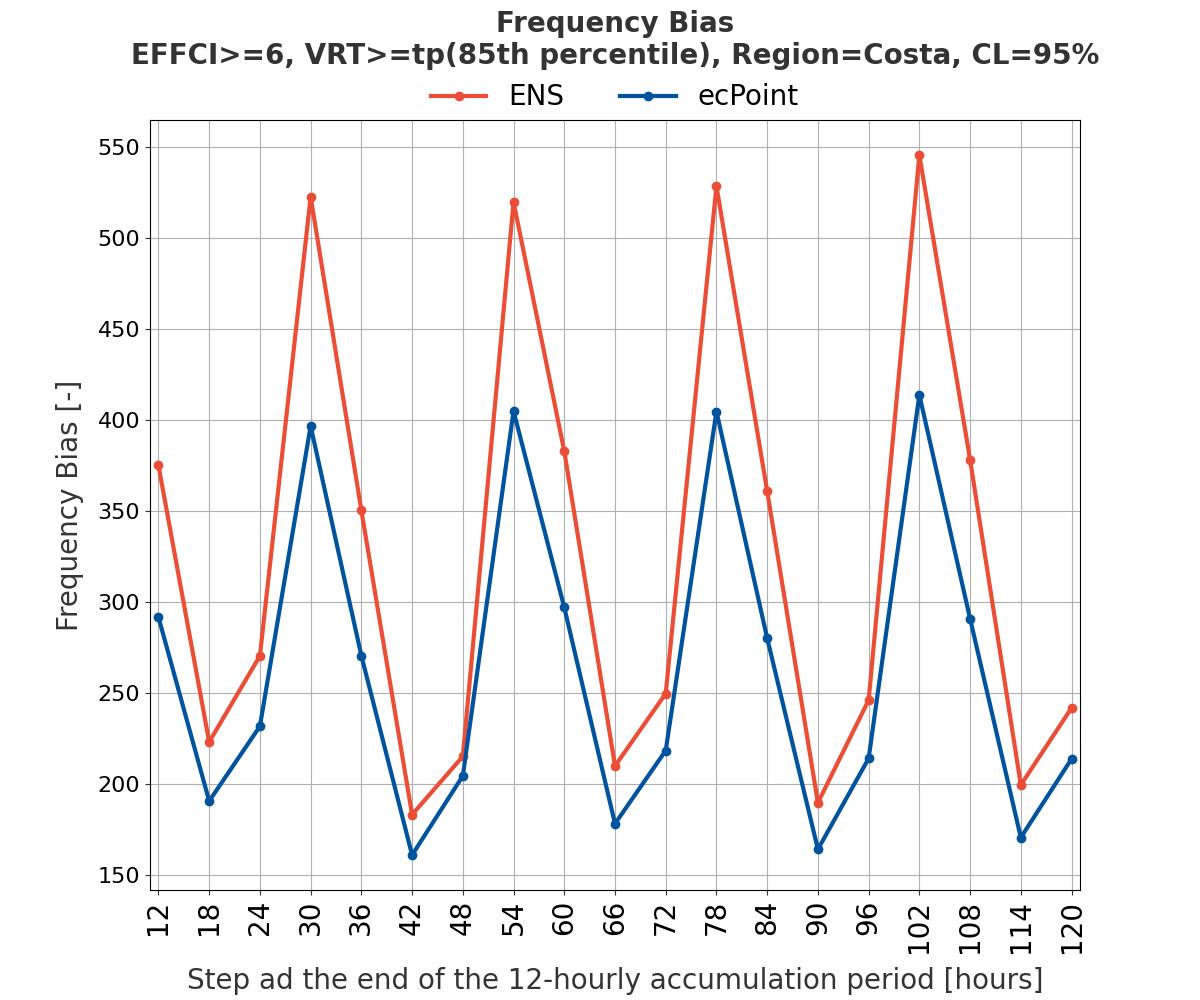
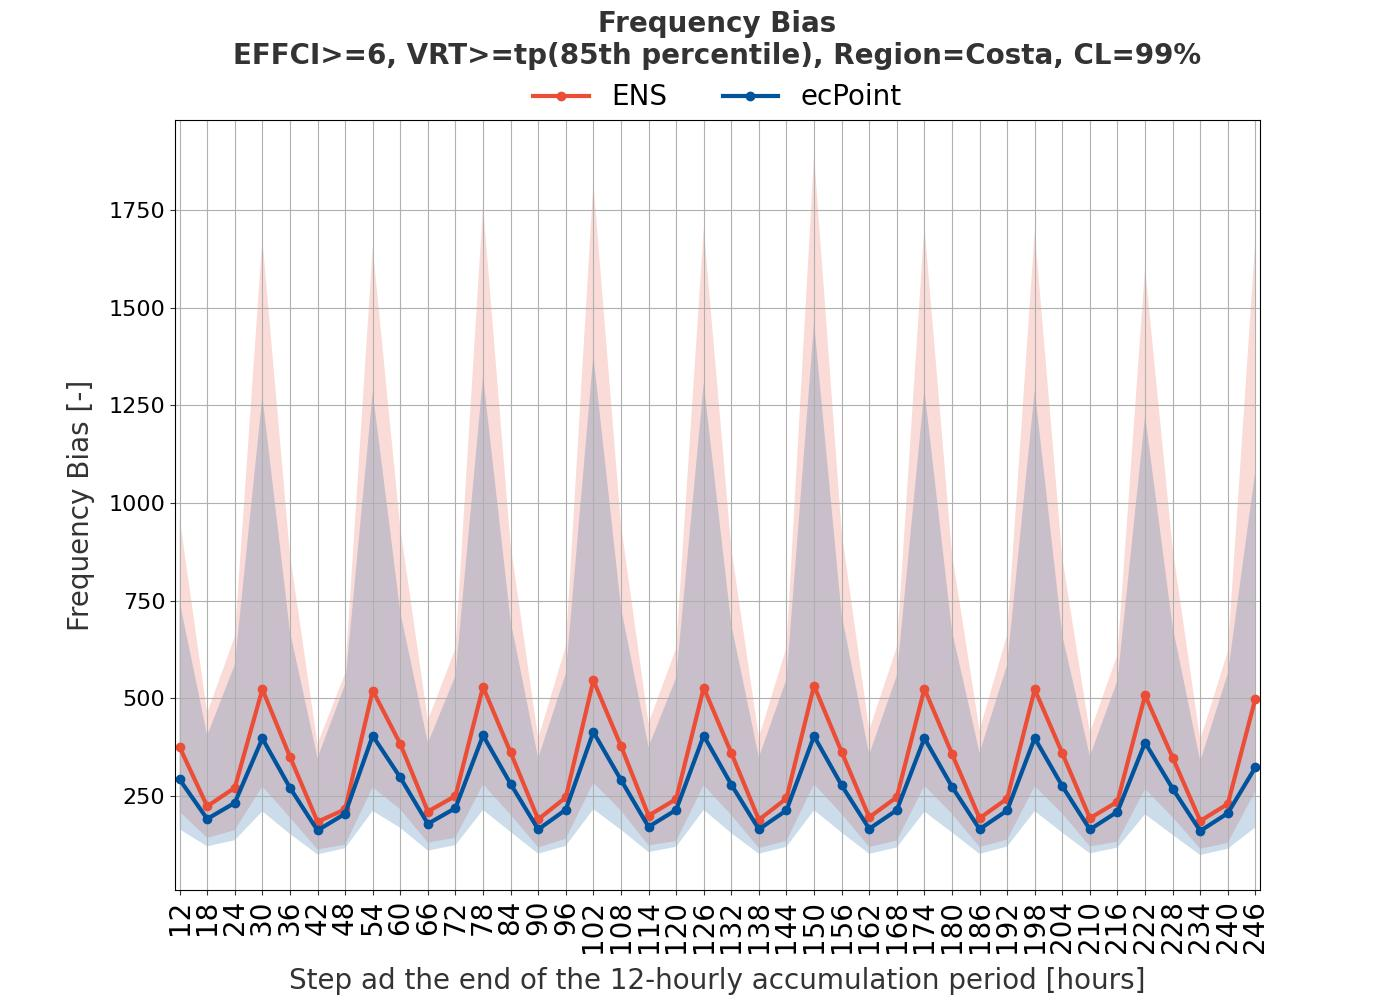
Added the plots related to the frequency bias.

diff --git a/Scripts/Processed/10_Compute_FB_Bootstrapping.py b/Scripts/Processed/10_Compute_FB_Bootstrapping.py
@@ -31,12 +31,12 @@ import numpy as np
 DateS = datetime(2020,1,1,0)
 DateF = datetime(2020,12,31,0)
 StepF_Start = 12
-StepF_Final = 120
+StepF_Final = 246
 Disc_Step = 6
 Acc = 12
-EFFCI_list = [6]
+EFFCI_list = [1,6,10]
 MagnitudeInPerc_Rain_Event_FR_list = [85,99]
-RepetitionsBS = 100
+RepetitionsBS = 10000
 RegionName_list = ["Costa","Sierra"]
 SystemFC_list = ["ENS", "ecPoint"]
 NumEM_list = [51,99]
@@ -49,15 +49,16 @@ DirOUT_FB = "Data/Compute/10_FB_Bootstrapping"
 print(" ")
 print("Computing FB, including " + str(RepetitionsBS) + " bootstrapped values")
 
-# Computing the totals number of days contained in the considered verification period
-NumTotDays = (DateF-DateS).days + 1
+# Sorting the dates to consider in the bootstrapping
+NumDays = (DateF-DateS).days + 1
+Dates_Orig = np.array([DateS + timedelta(days=i) for i in range(NumDays)])
+Dates_BS = (np.array([choices(population=Dates_Orig, k=NumDays) for i in range(RepetitionsBS)])).flatten()
+temp = {value: index for index, value in enumerate(Dates_Orig)}
+ind_Dates_BS = (np.array([temp[elem] for elem in Dates_BS])).reshape(RepetitionsBS,NumDays)
 
 # Creating the list containing the steps to considered in the computations
 StepF_list = range(StepF_Start, (StepF_Final+1), Disc_Step)
-
-# Computing the variables containing the sizes of the FC variables
-m = len(StepF_list)
-n = len(range(RepetitionsBS + 1))
+NumStepF = len(StepF_list)
 
 # Computing FB for a specific forecasting system
 for indSystemFC in range(len(SystemFC_list)):
@@ -80,50 +81,38 @@ for indSystemFC in range(len(SystemFC_list)):
 
                         print(" - For " + SystemFC + ", " + RegionName + ", EFFCI>=" + str(EFFCI) + ", VRT>=tp(" + str(MagnitudeInPerc_Rain_Event_FR) + "th percentile)")
 
-                        # Initializing the variables containing the FB values, and the bootstrapped ones
-                        FB_array = np.zeros([m,n+1])
-            
+                        # Initializing the variable that will contained the FB values
+                        FB_BS = np.empty((NumStepF, RepetitionsBS + 2))
+
                         # Computing FB for a specific lead time
-                        for indStepF in range(len(StepF_list)):
+                        for indStepF in range(NumStepF):
                               
                               # Selecting the StepF to consider
                               StepF = StepF_list[indStepF]
+                              FB_BS[indStepF,0] = StepF
+
                               print("     - Considering StepF=" + str(StepF) + " ...")
 
-                              # Storing information about the step computed
-                              FB_array[indStepF, 0] = StepF
+                              # Reading the counts of yes-events in the forecasts and observations for the original dates
+                              count_yes_fc = np.empty(NumDays) * np.nan
+                              count_yes_obs = np.empty(NumDays) * np.nan
+                              for ind_Date in range(len(Dates_Orig)):
+                                    TheDate = Dates_Orig[ind_Date]
+                                    FileIN = Git_repo + "/" + DirIN + "/" + f"{Acc:02d}" + "h/EFFCI" +  f"{EFFCI:02d}" + "/VRT" + f"{MagnitudeInPerc_Rain_Event_FR:02d}" + "/" + f"{StepF:03d}" + "/" + SystemFC + "/" + RegionName + "/Count_FC_OBS_" + f"{Acc:02d}" + "h_EFFCI" + f"{EFFCI:02d}" + "_VRT" + f"{MagnitudeInPerc_Rain_Event_FR:02d}" + "_" + SystemFC + "_" + RegionName + "_" + TheDate.strftime("%Y%m%d") + "_" + TheDate.strftime("%H") + "_" + f"{StepF:03d}" + ".npy"
+                                    if os.path.isfile(FileIN):
+                                          count_yes_fc[ind_Date] = np.round(np.load(FileIN)[0]/NumEM).astype(int)
+                                          count_yes_obs[ind_Date] = np.load(FileIN)[1]
+                              FB_BS[indStepF,1] = np.nansum(count_yes_fc) / np.nansum(count_yes_obs)
 
-                              # Generating the list of days to use during the bootstrapping 
-                              TheDate = DateS
-                              TheDates_original = []
-                              while TheDate <= DateF:
-                                    TheDates_original.append(TheDate)
-                                    TheDate += timedelta(days=1)
-                              TheDates_original = np.array(TheDates_original)
-                              
-                              # Computing FB for the original and the bootstrapped dates
-                              for ind_repBS in range(RepetitionsBS+1):
-                                   
-                                    # Selecting the list of dates to consider
-                                    if ind_repBS == 0: # selecting the original dates
-                                          TheDates_BS = TheDates_original
-                                    else: # selecting the bootstrapped dates
-                                          TheDates_BS = np.array(choices(population=TheDates_original, k=NumTotDays)) # list of bootstrapped dates
+                              # Extracting the bootstrapped values for the counts
+                              for ind_BS in range(RepetitionsBS):
+                                    count_yes_fc_BS = count_yes_fc[ind_Dates_BS[ind_BS,:]]
+                                    count_yes_obs_BS = count_yes_obs[ind_Dates_BS[ind_BS,:]]
+                                    FB_BS[indStepF,ind_BS+2] = np.nansum(count_yes_fc_BS) / np.nansum(count_yes_obs_BS)
 
-                                    # Computing the FB for the selected dates
-                                    tot_count_yes_fc = 0
-                                    tot_count_yes_obs = 0
-                                    for TheDate_BS in TheDates_BS:
-                                          FileIN = Git_repo + "/" + DirIN + "/" + f"{Acc:02d}" + "h/EFFCI" +  f"{EFFCI:02d}" + "/VRT" + f"{MagnitudeInPerc_Rain_Event_FR:02d}" + "/" + f"{StepF:03d}" + "/" + SystemFC + "/" + RegionName + "/Count_FC_OBS_" + f"{Acc:02d}" + "h_EFFCI" + f"{EFFCI:02d}" + "_VRT" + f"{MagnitudeInPerc_Rain_Event_FR:02d}" + "_" + SystemFC + "_" + RegionName + "_" + TheDate_BS.strftime("%Y%m%d") + "_" + TheDate_BS.strftime("%H") + "_" + f"{StepF:03d}" + ".npy"
-                                          tot_count_yes_fc = tot_count_yes_fc + np.load(FileIN)[0]
-                                          tot_count_yes_obs = tot_count_yes_obs  + np.load(FileIN)[1]
-                                          
-                                    # Computing FB
-                                    FB_array[indStepF, ind_repBS+1] = tot_count_yes_fc / (NumEM * tot_count_yes_obs)
-                        
                         # Saving the FB array
                         DirOUT_temp= Git_repo + "/" + DirOUT_FB + "/" + f"{Acc:02d}" + "h"
                         FileNameOUT_temp = "FB_" + f"{Acc:02d}" + "h_VRT" + f"{MagnitudeInPerc_Rain_Event_FR:02d}" + "_" + SystemFC + "_EFFCI" + f"{EFFCI:02d}" + "_" + RegionName
                         if not os.path.exists(DirOUT_temp):
                               os.makedirs(DirOUT_temp)
-                        np.save(DirOUT_temp + "/" + FileNameOUT_temp, FB_array)
+                        np.save(DirOUT_temp + "/" + FileNameOUT_temp, FB_BS)

diff --git a/Scripts/Processed/11_Plot_FB_CI.py b/Scripts/Processed/11_Plot_FB_CI.py
@@ -5,7 +5,7 @@ import matplotlib.pyplot as plt
 #####################################################################################
 # CODE DESCRIPTION
 # 11_Plot_FB_CI.py plots Frequency Bias (FB) and confidence intervals (CI).
-# Note: the code can take up 20 minutes to run in serial.
+# Note: the code can take up 10 minutes to run in serial.
 
 # INPUT PARAMETERS DESCRIPTION
 # Acc (number, in hours): rainfall accumulation to consider.
@@ -26,7 +26,7 @@ import matplotlib.pyplot as plt
 Acc = 12
 EFFCI_list = [1,6,10]
 MagnitudeInPerc_Rain_Event_FR_list = [85,99]
-CL = 95
+CL = 99
 RegionName_list = ["Costa","Sierra"]
 SystemFC_list = ["ENS", "ecPoint"]
 Colour_SystemFC_list = ["#ec4d37", "#00539CFF"]
@@ -48,7 +48,7 @@ for EFFCI in EFFCI_list:
             for RegionName in RegionName_list: 
                   
                   # Setting the figure
-                  fig, ax = plt.subplots(figsize=(12, 10))
+                  fig, ax = plt.subplots(figsize=(14, 10))
 
                   # Plotting FB for a specific forecasting system
                   for indSystemFC in range(len(SystemFC_list)):
@@ -62,13 +62,13 @@ for EFFCI in EFFCI_list:
                         FileNameIN_temp = "FB_" + f"{Acc:02d}" + "h_VRT" + f"{MagnitudeInPerc_Rain_Event_FR:02d}" + "_" + SystemFC + "_EFFCI" + f"{EFFCI:02d}" + "_" + RegionName + ".npy"
                         StepF = np.load(DirIN_temp + "/" + FileNameIN_temp)[:,0].astype(int)
                         fb_real = np.load(DirIN_temp + "/" + FileNameIN_temp)[:,1]
-                        fb_BS = np.load(DirIN_temp + "/" + FileNameIN_temp)[:,3:]
+                        fb_BS = np.load(DirIN_temp + "/" + FileNameIN_temp)[:,2:]
                         
                         # Computing the confidence intervals from the bootstrapped FB values
                         alpha = 100 - CL # significance level (in %)
-                        CI_lower = np.nanpercentile(fb_BS, alpha/2, axis=0)
-                        CI_upper = np.nanpercentile(fb_BS, 100 - (alpha/2), axis=0)
-
+                        CI_lower = np.nanpercentile(fb_BS, alpha/2, axis=1)
+                        CI_upper = np.nanpercentile(fb_BS, 100 - (alpha/2), axis=1)
+                        
                         # Plotting the FB values
                         ax.plot(StepF, fb_real, "o-", color=Colour_SystemFC, label=SystemFC, linewidth=3)
                         ax.fill_between(StepF, CI_lower, CI_upper, color=Colour_SystemFC, alpha=0.2, edgecolor="none")
@@ -80,8 +80,6 @@ for EFFCI in EFFCI_list:
                   ax.set_ylabel("Frequency Bias [-]", fontsize=20, labelpad=10, color="#333333")
                   ax.set_xlim([StepF[0]-1, StepF[-1]+1])
                   ax.set_xticks(np.arange(StepF[0], (StepF[-1]+1), DiscStep))
-                  ax.set_ylim([0, np.max(CI_upper)+100])
-                  ax.set_yticks(np.arange(0,max(CI_upper)+100, 1000))
                   ax.xaxis.set_tick_params(labelsize=20, rotation=90, color="#333333")
                   ax.yaxis.set_tick_params(labelsize=16, color="#333333")
                   ax.legend(loc="upper center",  bbox_to_anchor=(0.5, 1.08), ncol=2, fontsize=20, frameon=False)

diff --git a/Scripts/Processed/09_Compute_Counts_FC_OBS_Exceeding_VRT.py b/Scripts/Processed/09_Compute_Counts_FC_OBS_Exceeding_VRT.py
@@ -8,8 +8,7 @@ import metview as mv
 # CODE DESCRIPTION
 # 09_Compute_Counts_FC_OBS_Exceeding_VRT.py computes daily counts of ensemble members and observations exceeding a 
 # considered VRT. 
-# Note: the code can take up 4 days to run in serial. It is recommended to run separate months in parallel to take down the 
-# runtime to 8 hours. 
+# Note: the code can take up 4 days to run in serial.
 
 # INPUT PARAMETERS DESCRIPTION
 # Year (integer, in format YYYY): year to consider in the processing.

diff --git a/Scripts/Processed/13_Compute_AROC_Bootstrapping.py b/Scripts/Processed/13_Compute_AROC_Bootstrapping.py
@@ -9,7 +9,7 @@ import pandas as pd
 # CODE DESCRIPTION
 # 13_Compute_AROC_Bootstrapping.py computes the area under the ROC curves (AROC), including the bootstrapped 
 # values to estimate the statistical significance of the estimates.
-# Note: the code can take up to 2 hours to run.
+# Note: the code can take up to 2 hours to run to run in series.
 
 # INPUT PARAMETERS DESCRIPTION
 # DateS (date, in format YYYYMMDD): start date of the considered verification period.
